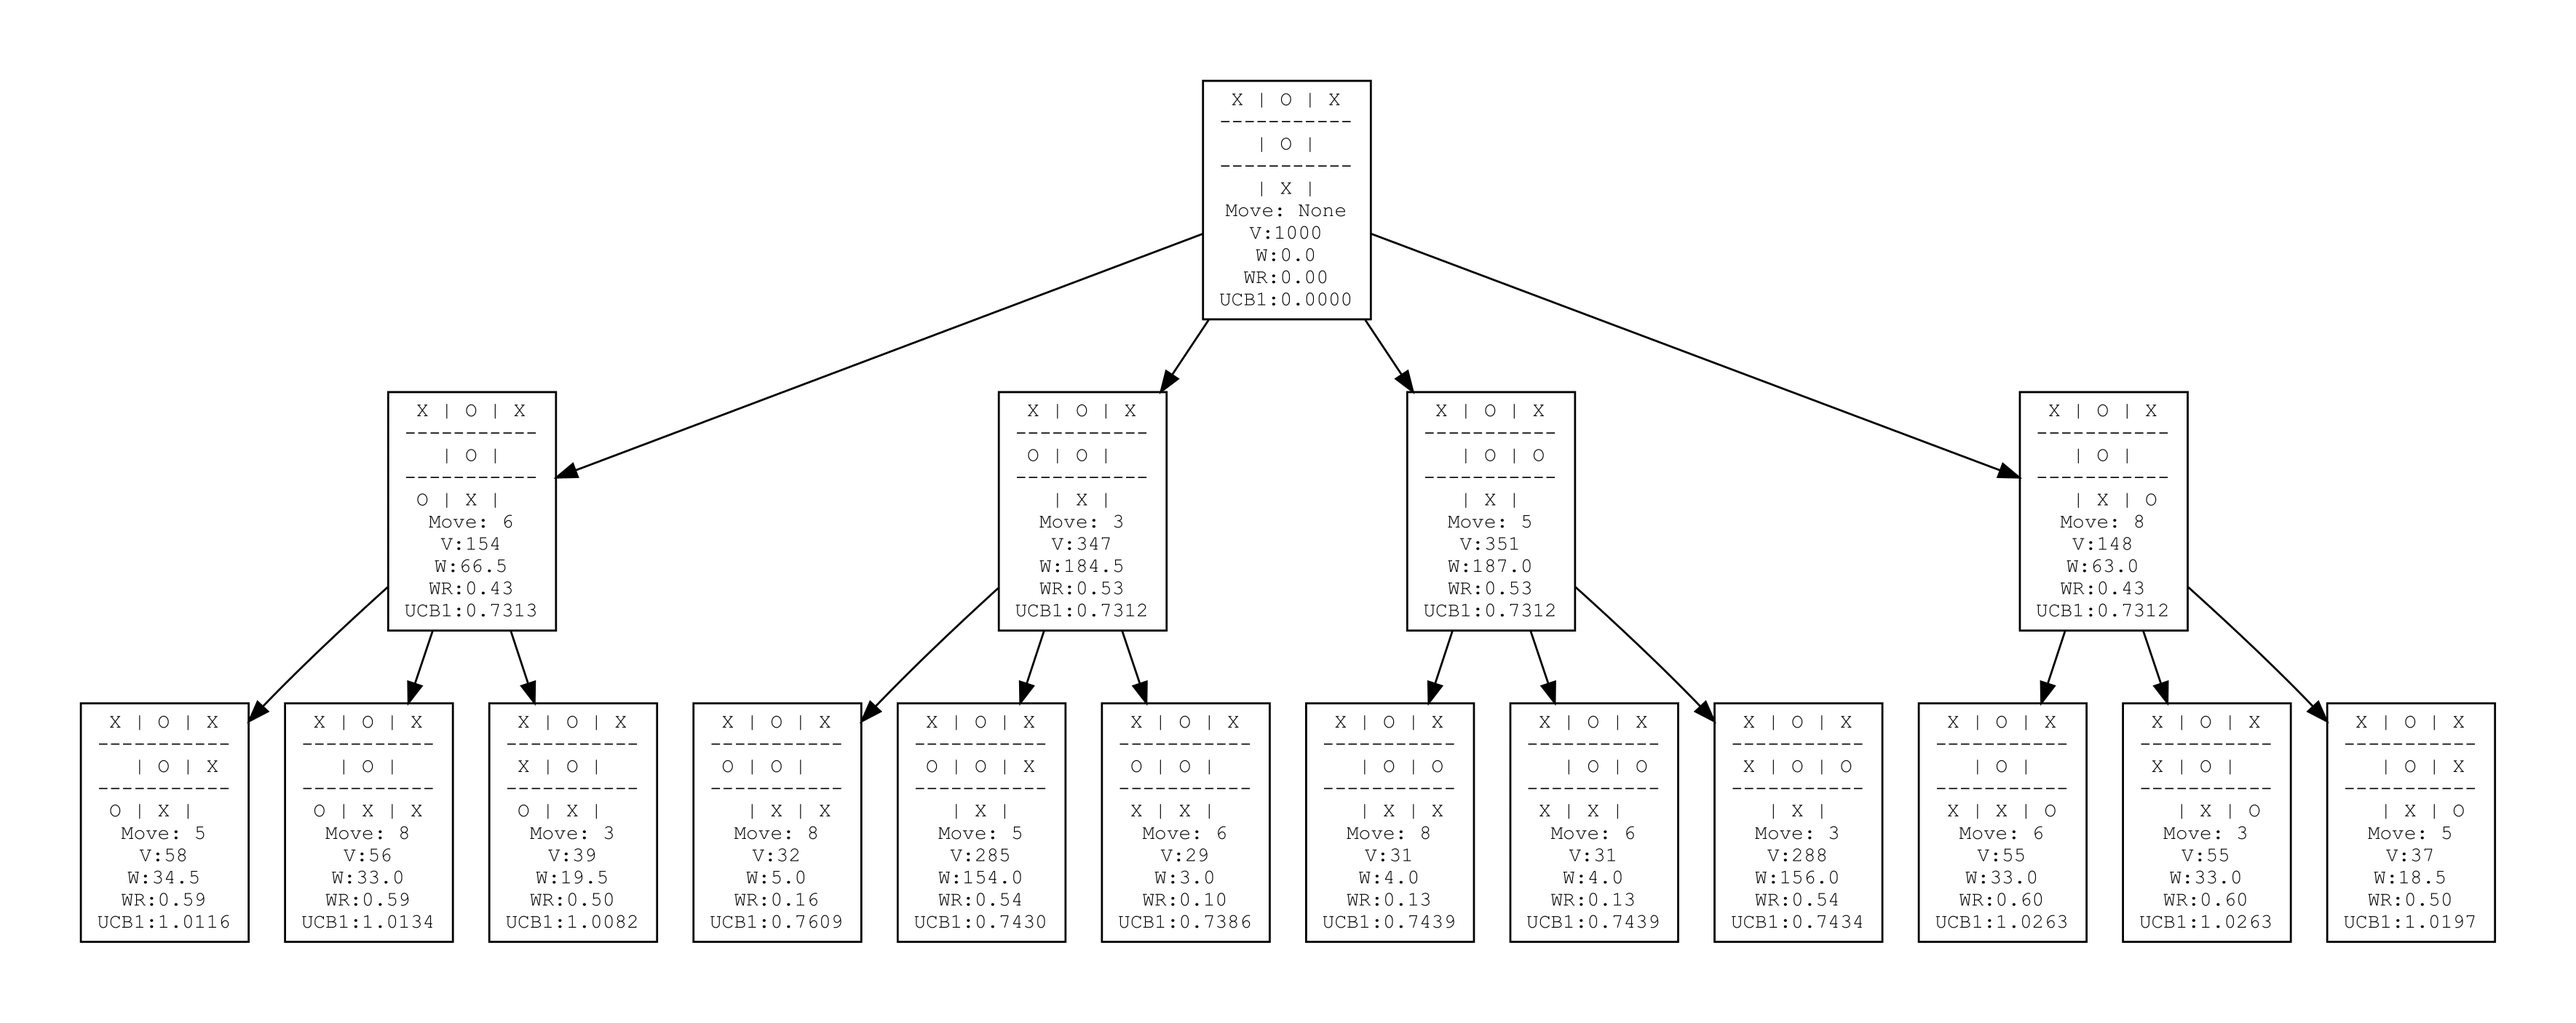
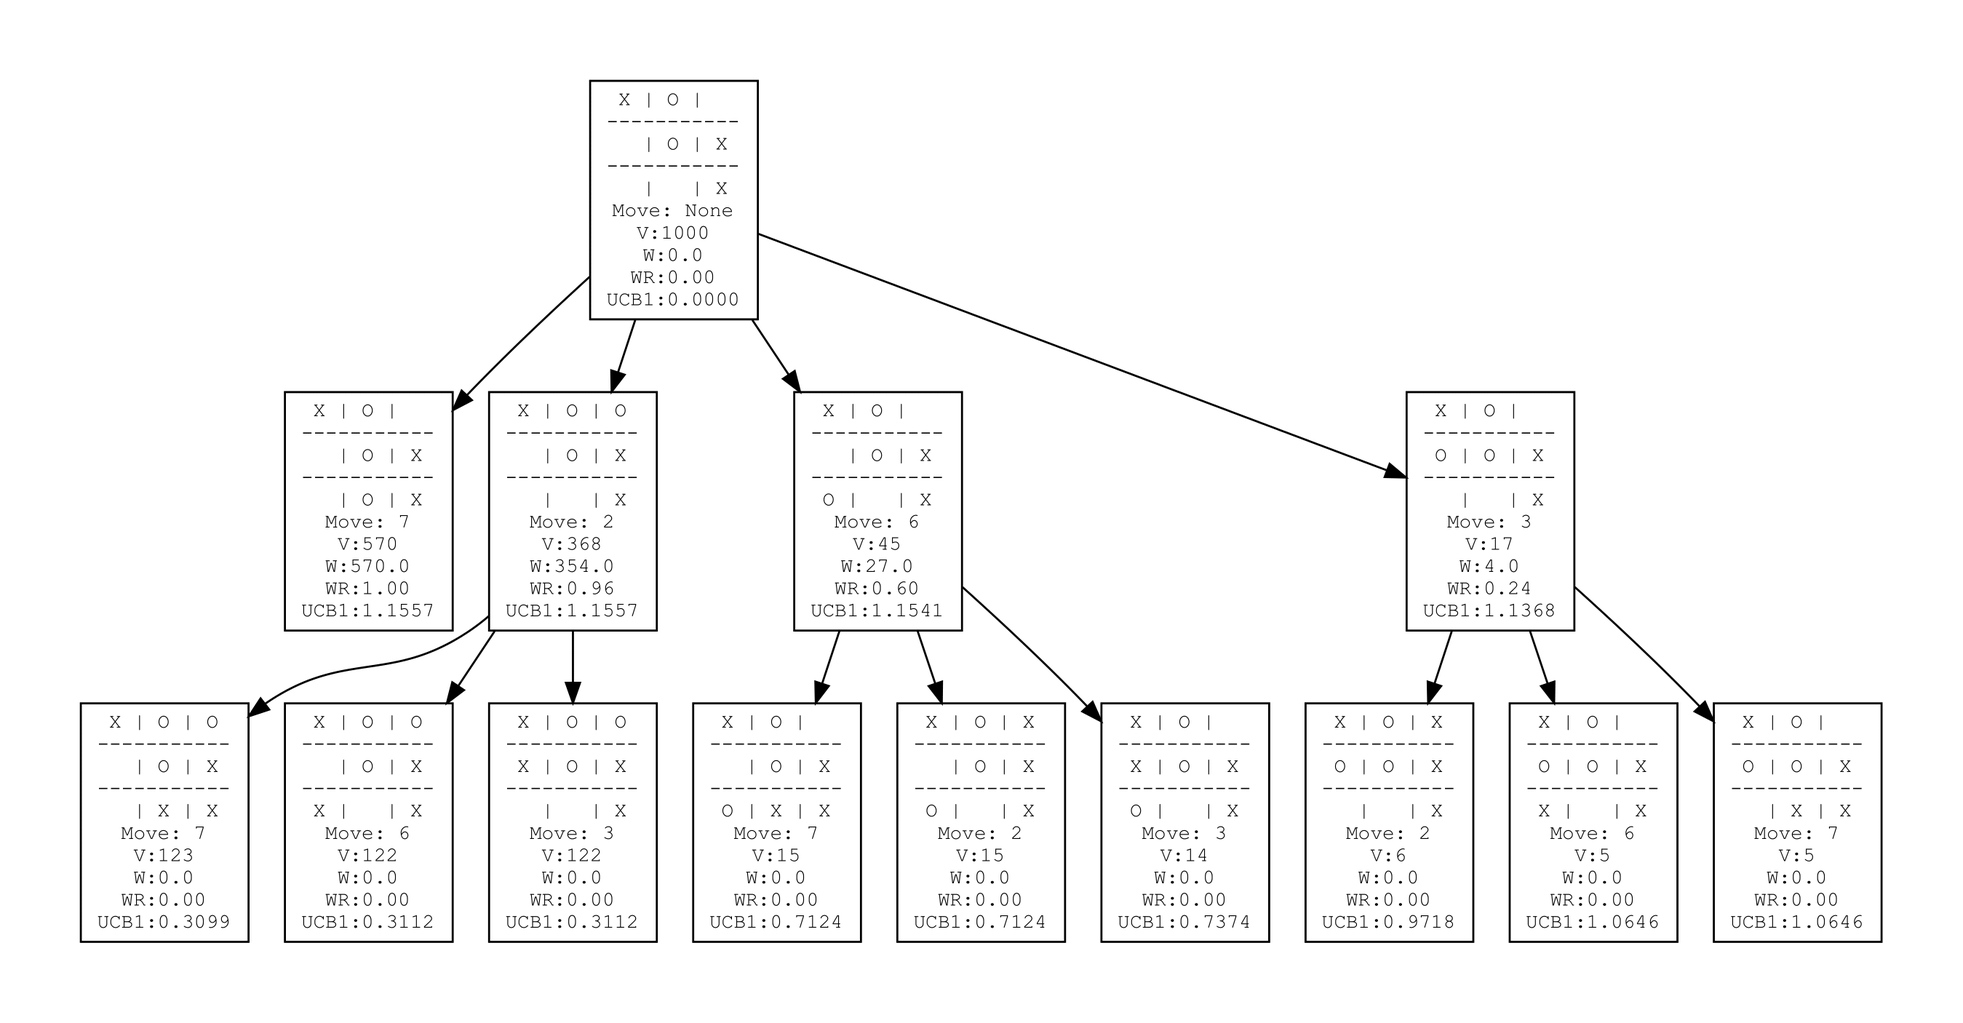
Fix backpropagation logic in MCTS algorithm

diff --git a/tic_tac_toe_mcts.py b/tic_tac_toe_mcts.py
@@ -394,8 +394,7 @@ class MCTS:
         if not node.is_root():
             if winner == "v":  # Draw
                 node.data.wins += 0.5
-            elif ((node.data.move.player == PLAYER["MACHINE"] and winner == "m") or
-                  (node.data.move.player == PLAYER["HUMAN"] and winner == "h")):
+            elif node.data.move.player == PLAYER["MACHINE"] and winner == "m":
                 node.data.wins += 1
 
             actions = actions + self.backpropagate(self.tree.get_parent(node), winner)["actions"]
